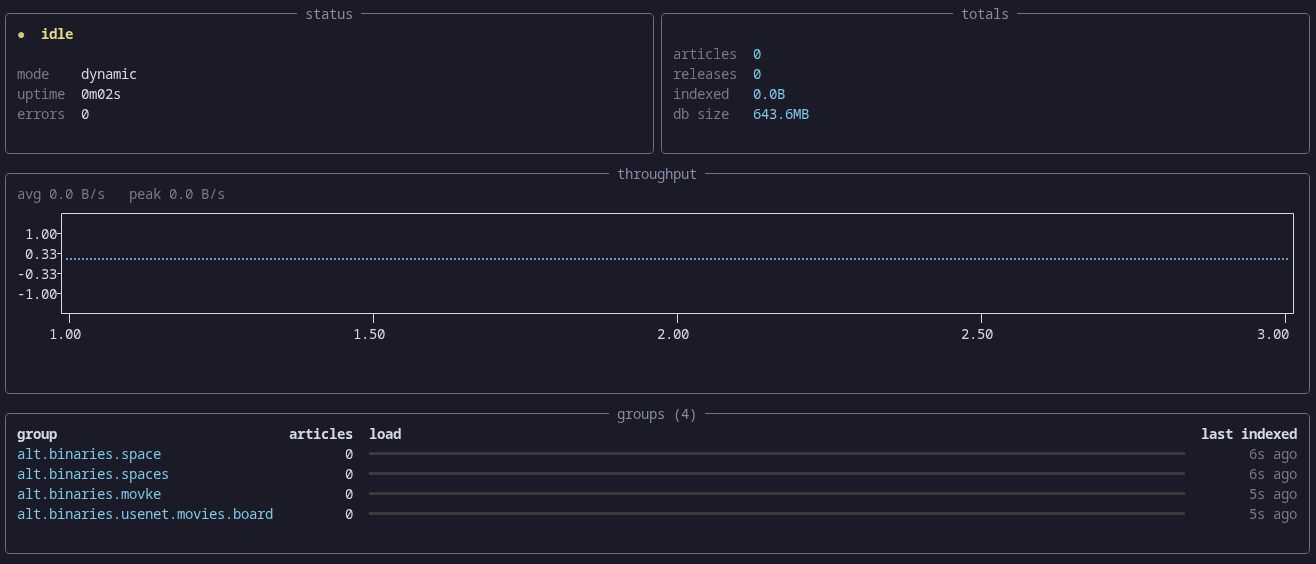
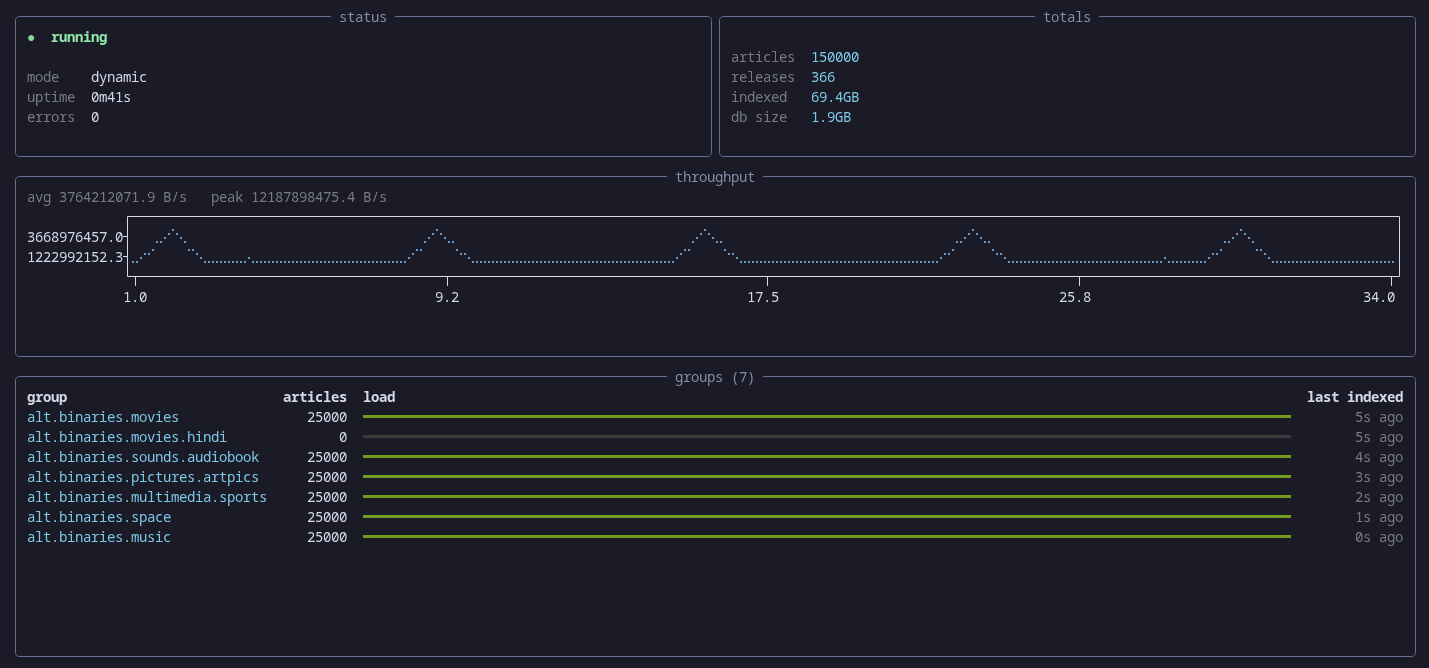
Fix bugs and Docker

diff --git a/bg_indexer.py b/bg_indexer.py
@@ -3,7 +3,7 @@ from src.database import create_db
 from src.nntp_client import NNTPClient
 from src.indexer import Indexer
 from src.colors import red, yellow, reset
-from src.sab import start as start_sab, is_running as sab_running, wait_ready as sab_wait_ready
+from src.sab import start as start_sab, is_running as sab_running, wait_ready as sab_wait_ready, available as sab_available
 from pathlib import Path
 import os
 import signal
@@ -11,7 +11,7 @@ import sys
 import time
 import json
 
-BASE_DIR = Path(__file__).resolve().parent
+BASE_DIR = Path(os.environ.get("ATLAS_HOME", Path(__file__).resolve().parent))
 STATUS_FILE = BASE_DIR / "status.json"
 STATS_FILE = BASE_DIR / "stats.json"
 PID_FILE = BASE_DIR / "bg_indexer.pid"
@@ -189,7 +189,7 @@ def main():
     indexer = Indexer(client, mode = config.get("index_mode", "dynamic"))
 
     #start sabnzbd so its ready when you wanna download
-    if not sab_running():
+    if sab_available() and not sab_running():
         start_sab()
         sab_wait_ready()
 

diff --git a/src/indexer.py b/src/indexer.py
@@ -67,10 +67,14 @@ class Indexer:
             self.backfill(group, state, int(first), int(last))
 
         elif self._gs(group)["phase"] == "live":
+            st = self._gs(group)
             self.live(group, state, int(last))
-            
+            st["phase"] = "backfill"
+
         else:
+            st = self._gs(group)
             self.backfill(group, state, int(first), int(last))
+            st["phase"] = "live"
 
     def live(self, group, state, last):
         st = self._gs(group)

diff --git a/src/database.py b/src/database.py
@@ -1,8 +1,9 @@
 import sqlite3
 from pathlib import Path
+import os
 from functools import wraps
 
-BASE_DIR = Path(__file__).resolve().parent.parent
+BASE_DIR = Path(os.environ.get("ATLAS_HOME", Path(__file__).resolve().parent.parent))
 database = BASE_DIR / "atlas.db"
 
 
@@ -111,6 +112,7 @@ def _rebuild_articles_unique(cursor):
 
 
 def create_db():
+    database.parent.mkdir(parents = True, exist_ok = True)
     conn = sqlite3.connect(database, timeout = 30)
 
     try:

diff --git a/main.py b/main.py
@@ -143,7 +143,7 @@ def start_background_indexer():
 
     try:
         subprocess.Popen(
-            [sys.executable, "-u", "bg_indexer.py"],
+            [sys.executable, "-u", str(Path(__file__).resolve().parent / "bg_indexer.py")],
             cwd = BASE_DIR,
             stdin = subprocess.DEVNULL,
             stdout = log_file,

diff --git a/src/sab.py b/src/sab.py
@@ -23,6 +23,10 @@ WATCHED_DIR = CONFIG_DIR / "watched"
 process = None
 
 
+def available():
+    return SAB_DIR.exists()
+
+
 def configure_servers():
     atlas = load_atlas_config()
 
